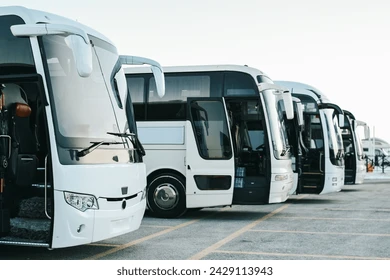
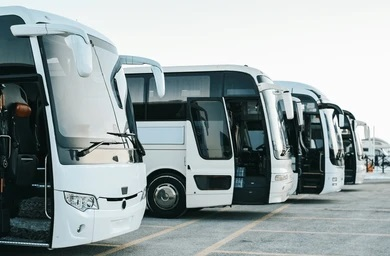
Imagen de fondo

diff --git a/src/componentes/mostrarTicket.jsx b/src/componentes/mostrarTicket.jsx
@@ -27,13 +27,21 @@ const MostrarTickets = ({ tickets, onModify, onDelete }) => {
                 <td>{`${ticket.schedule.departure} - ${ticket.schedule.arrival}`}</td>
                 <td>{ticket.schedule.destination}</td>
                 <td>{ticket.selectedDate}</td>
-                <td>{ticket.paymentMethod === 'cash' ? 'Efectivo' : ticket.paymentMethod}</td>
+                <td>
+                  {ticket.paymentMethod === 'creditCard' 
+                    ? 'Tarjeta de crédito'
+                    : ticket.paymentMethod === 'cash'
+                    ? 'Efectivo'
+                    : ticket.paymentMethod === 'debitCard'
+                    ? 'Tarjeta de débito'
+                    : ticket.paymentMethod}
+                </td>
                 <td>
                   <button onClick={() => onModify(index)}>Modificar</button>
-                  <div style={{ margin: '5px 0' }}></div>
+                  <div className="button-spacing"></div>
                   <button className="eliminar" onClick={() => onDelete(index)}>Eliminar</button>
-
                 </td>
+
               </tr>
             ))
           )}

diff --git a/src/styles/styles.css b/src/styles/styles.css
@@ -3,7 +3,10 @@ body {
   font-family: 'Arial', sans-serif;
   margin: 0;
   padding: 0;
-  background-color: #ebd046; /* Fondo claro y suave */
+  background-image: url('https://revistamagazzine.com/wp-content/uploads/2020/12/33-autobuses-Scania-para-Estrella-Blanca-fa.jpg');
+  background-size: cover; /* Ajusta la imagen para cubrir toda la pantalla */
+  background-position: center; 
+  background-repeat: no-repeat; 
   display: flex;
   align-items: flex-start;
   justify-content: center;
@@ -15,7 +18,7 @@ body {
   max-width: 800px;
   margin: 20px;
   padding: 20px;
-  background-color: #fff;
+  background-color: #f5f18d;
   border-radius: 10px;
   box-shadow: 0 4px 10px rgba(0, 0, 0, 0.1);
   text-align: center;
@@ -127,6 +130,11 @@ p {
   margin-top: 10px;
 }
 
+.button-spacing {
+  margin: 5px 0; /* Espacio entre los botones */
+}
+
+
 /* Estilo para el botón 'Comprar Pasaje' */
 .btn-comprar {
   background-color: #007bff; /* Color azul */
@@ -190,6 +198,3 @@ p {
 .form-group label {
   color: rgb(41, 7, 140); /* Cambiar a color negro */
 }
-
-
-

diff --git a/src/componentes/salidas_llegadas.jsx b/src/componentes/salidas_llegadas.jsx
@@ -3,6 +3,7 @@ import React from 'react';
 const fakeSchedules = [
   { id: 1, departure: '13:30', arrival: '16:30', destination: 'Mar del Plata', date: new Date().toISOString().split('T')[0] }, // Fecha actual
   { id: 2, departure: '1:45', arrival: '7:00', destination: 'Capital Federal', date: new Date().toISOString().split('T')[0] },
+  { id: 3, departure: '11:15', arrival: '14:30', destination: 'Necochea', date: new Date().toISOString().split('T')[0] },
 ];
 
 const SalidasLlegadas = () => {

diff --git a/src/componentes/compraTicket.jsx b/src/componentes/compraTicket.jsx
@@ -12,6 +12,7 @@ const CompraTicket = () => {
   const [schedules] = useState([
     { id: 1, departure: '13:30', arrival: '16:30', destination: 'Mar del Plata' },
     { id: 2, departure: '1:45', arrival: '7:00', destination: 'Capital Federal' },
+    { id: 3, departure: '11:15', arrival: '14:30', destination: 'Necochea' },
   ]);
 
   const [tickets, setTickets] = useState([]);
